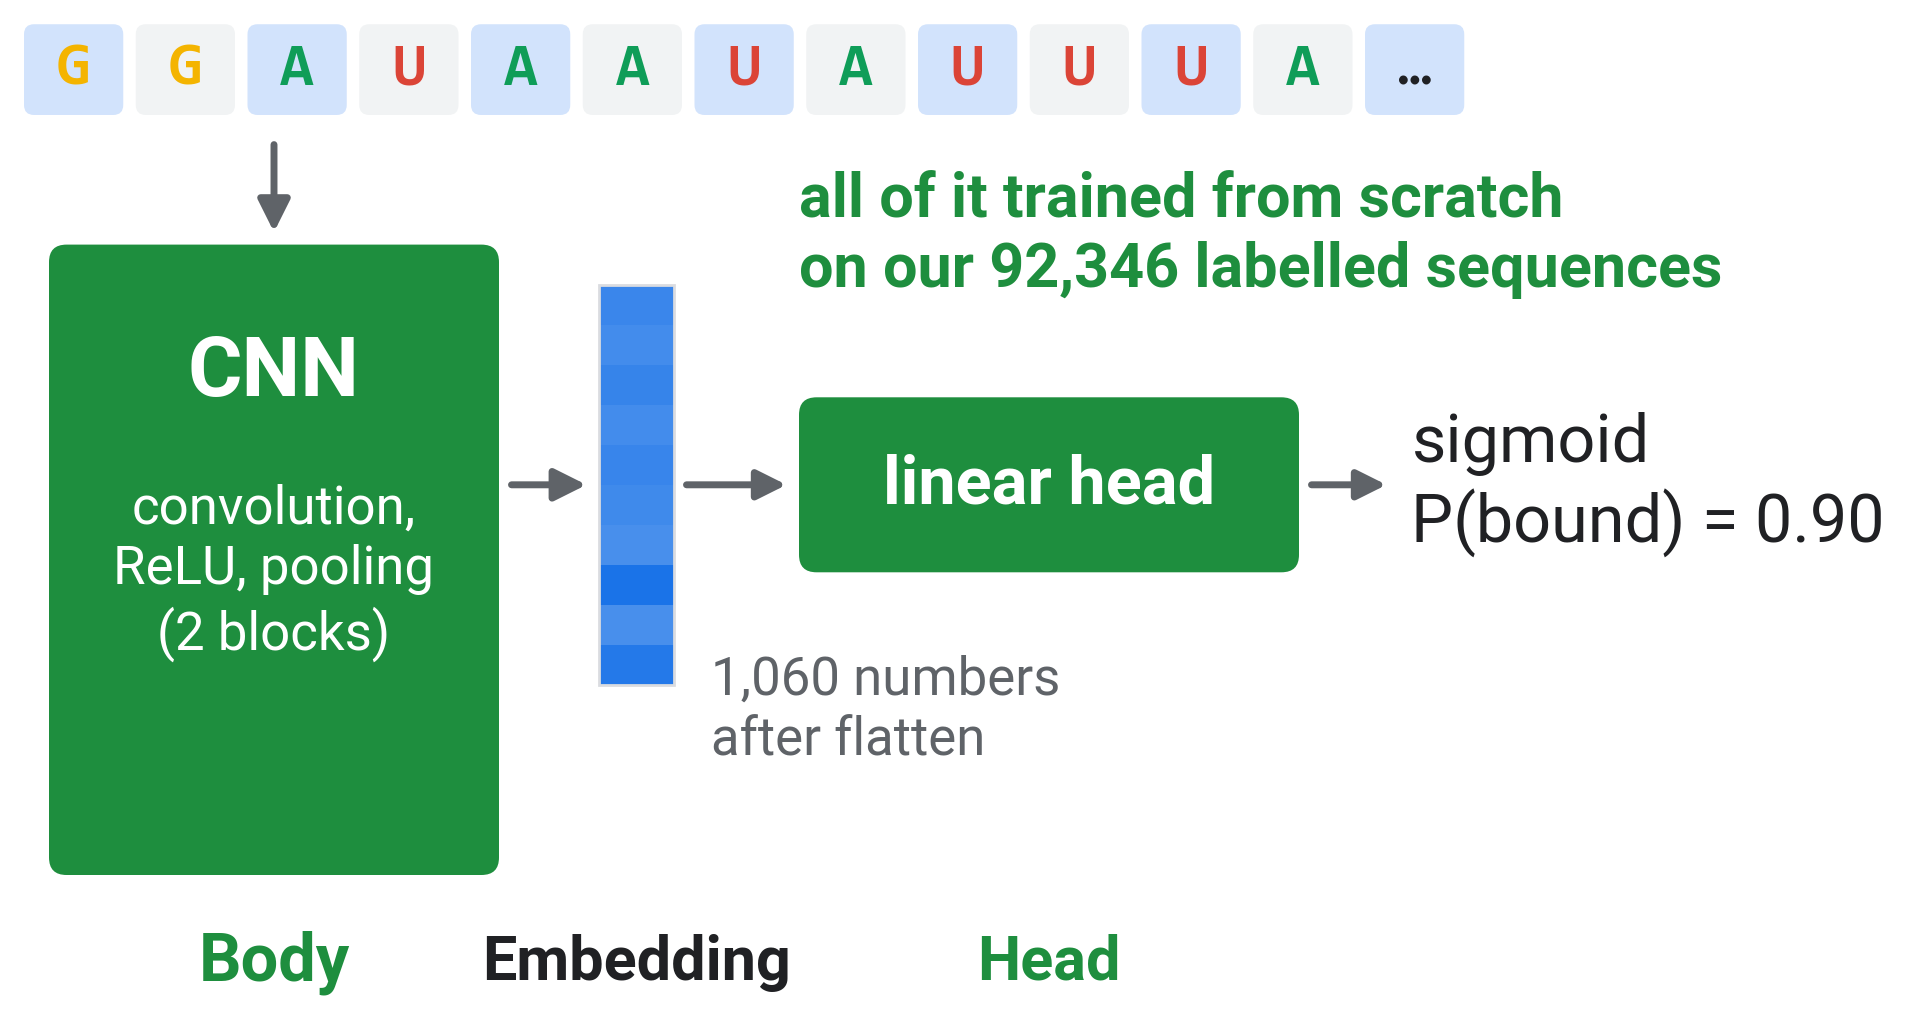
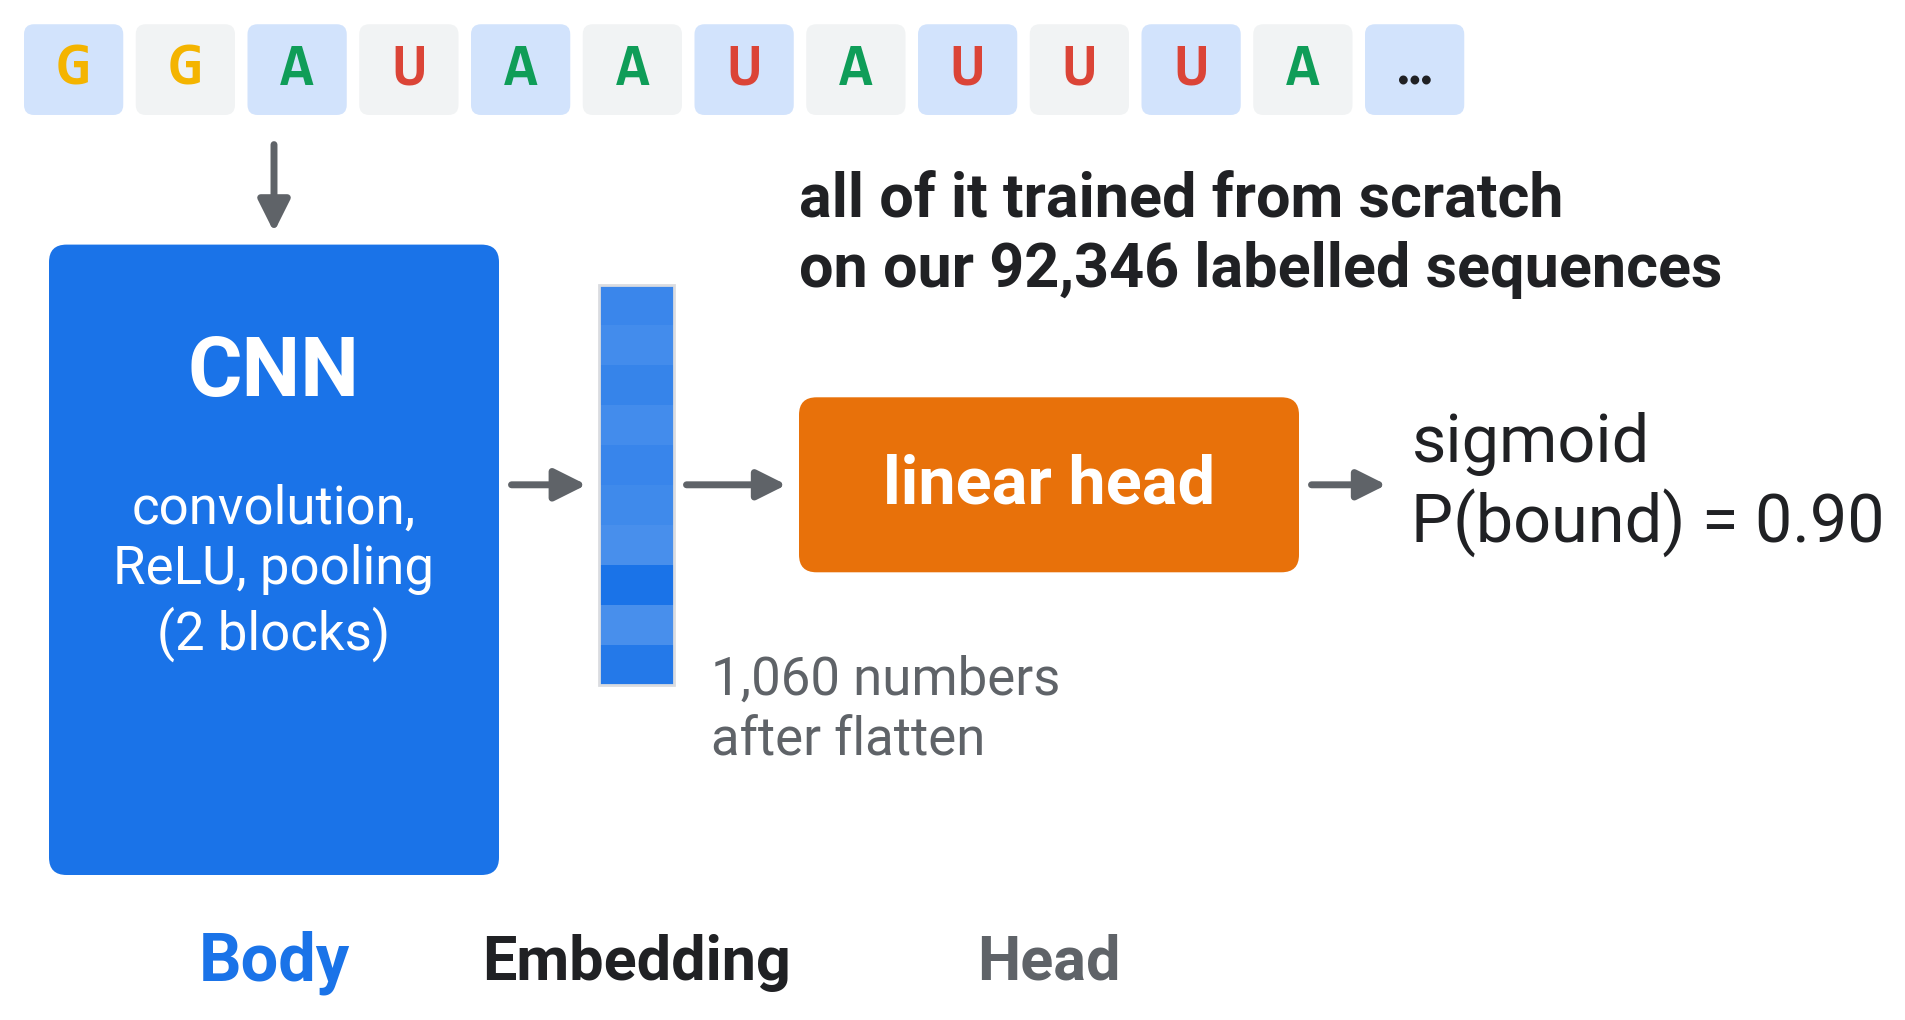
Deck 2 slide 1.1: body blue and head orange, as in the slides after it

diff --git a/slides/figures/figs_deck2.py b/slides/figures/figs_deck2.py
@@ -162,21 +162,21 @@ def cnn_recap(pos):
     top = H - 6
     tok_row(ax, 2, top, list(s[150:162]) + ["…"], fs=22)
     arrow(ax, 22, top - 6, 22, top - 13, color=MUTED, lw=2.5, ms=24)
-    ax.add_patch(FancyBboxPatch((4, 12), 36, top - 26, boxstyle="round,pad=0,rounding_size=1.4", fc=CNN_C, ec="none"))
+    ax.add_patch(FancyBboxPatch((4, 12), 36, top - 26, boxstyle="round,pad=0,rounding_size=1.4", fc=ACCENT, ec="none"))           # colours as in the adapt figures: body blue, head orange
     mid = (top - 14) / 2 + 12
     label(ax, 22, mid + 9, "CNN", fs=30, color="white", bold=True)
     label(ax, 22, mid - 7, "convolution,\nReLU, pooling\n(2 blocks)", fs=19, color="white")
-    label(ax, 22, 5, "Body", fs=24, color=CNN_C, bold=True)
+    label(ax, 22, 5, "Body", fs=24, color=ACCENT, bold=True)
     arrow(ax, 41, mid, 47, mid, color=MUTED, lw=2.5, ms=24)
     strip(ax, 48, mid - 16, 6, 32, e, np.abs(e).max(), vertical=True)
     label(ax, 51, 5, "Embedding", fs=22, color=INK, bold=True)
     label(ax, 57, mid - 18, "1,060 numbers\nafter flatten", fs=19, color=MUTED, ha="left")
     arrow(ax, 55, mid, 63, mid, color=MUTED, lw=2.5, ms=22)
-    blk(ax, 64, mid - 7, 40, 14, "linear head", fc=CNN_C, fs=24)
+    blk(ax, 64, mid - 7, 40, 14, "linear head", fc=HELD_C, fs=24)
     arrow(ax, 105, mid, 111, mid, color=MUTED, lw=2.5, ms=22)
     label(ax, 113, mid, f"sigmoid\nP(bound) = {p:.2f}", fs=24, ha="left")
-    label(ax, 84, 5, "Head", fs=22, color=CNN_C, bold=True)
-    label(ax, 64, mid + 20, "all of it trained from scratch\non our 92,346 labelled sequences", fs=22, color=CNN_C,
+    label(ax, 84, 5, "Head", fs=22, color=MUTED, bold=True)
+    label(ax, 64, mid + 20, "all of it trained from scratch\non our 92,346 labelled sequences", fs=22, color=INK,
           ha="left", bold=True)
     save_raw(fig, "d2_cnn_recap")
     trim_group(["d2_cnn_recap"])
